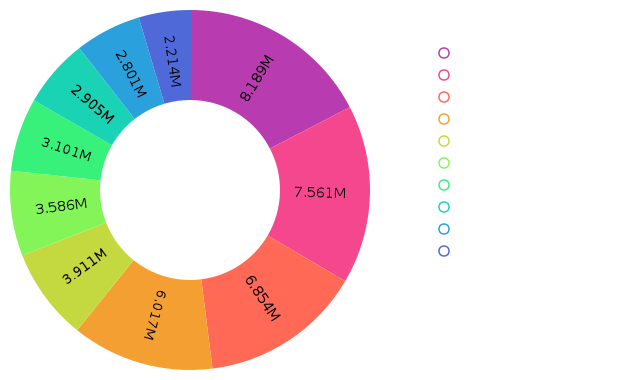
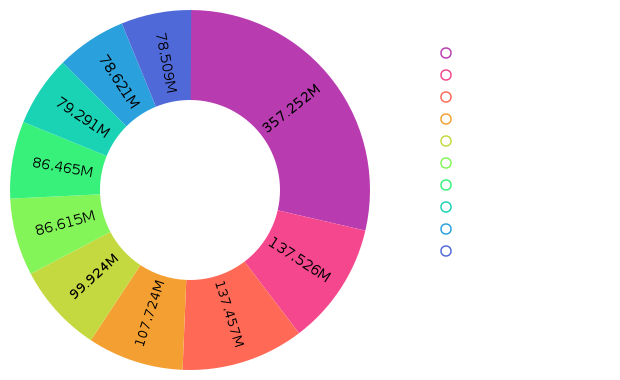
make sure image is generated before table reset

diff --git a/View/bot.js b/View/bot.js
@@ -24,12 +24,24 @@ function checkForInjection(message) {
 
 // make an announcement for a given time table
 async function makeExpAnnouncement(clanName = 'Sorrow Knights', numTop = 5, time = 'daily', isSplit = false, isSpam = true) {
-	var message = await annmsg.makeExpAnnouncementMessage(clanName, numTop, time, isSplit);
-	if(isSpam) {
-		spam_hook.send(message);
-	} else {
-		ach_hook.send(message);
-	}	
+	if(numTop > 15) {
+        numTop = 15;
+    }
+    let canDo = await annmsg.makeRankAnnouncementMessage('Sorrow Knights', numTop, time, false);
+    if(canDo) {
+        if(isSpam) {
+			spam_hook.send({files: ["./View/rank.png"]});
+		} else {
+			ach_hook.send({files: ["./View/rank.png"]});
+		}	
+    } else {
+		if(isSpam) {
+			spam_hook.send("Not enough data to make announcement.");
+		} else {
+			ach_hook.send("Not enough data to make announcement.");
+		}
+	}
+	return canDo;
 }
 
 function sendAchHookMessage(message){
@@ -59,6 +71,8 @@ var hourly_update = schedule.scheduleJob('30 * * * *', function(){
 	});
 })
 
+makeExpAnnouncement('Sorrow Knights', 10, 'daily', false, true);
+
 // at 0 gmt
 var daily_job = schedule.scheduleJob('0 0 * * *', function(){
 	// calculate the last days top exp and send to discord channel
@@ -75,7 +89,7 @@ var daily_job = schedule.scheduleJob('0 0 * * *', function(){
 var weekly_job = schedule.scheduleJob('0 0 * * 1', function(){
 	// calculate the last week's top exp and send to discord channel
 	var numTop = 5;
-	makeExpAnnouncement('Sorrow Knights', 5, 'weekly', false, false).then (res => {
+	makeExpAnnouncement('Sorrow Knights', 10, 'weekly', false, false).then (res => {
 		clan.setWeeklyXp();
 	});
 	// send stuff to discord channel
@@ -84,7 +98,7 @@ var weekly_job = schedule.scheduleJob('0 0 * * 1', function(){
 // at 0 gmt every first day of the month update monthly
 var monthly_job = schedule.scheduleJob('0 0 1 * *', function(){
 	// calculate the last month's top exp and send to discord channel
-	makeExpAnnouncement('Sorrow Knights', 5, 'monthly', false, false).then (res => {
+	makeExpAnnouncement('Sorrow Knights', 10, 'monthly', false, false).then (res => {
 		clan.setMonthlyXp();
 	});
 	// send stuff to discord channel

diff --git a/View/announcementmsg.js b/View/announcementmsg.js
@@ -85,6 +85,9 @@ async function makeRankAnnouncementMessage(clanName = 'Sorrow Knights', numTop =
 			total = await clan.calculateTopExpMonthly(clanName, numTop);
 			break;
 	}
+	if(total[0].name == undefined) {
+		return false;
+	}
 	//let total = await clan.calculateTopExpDaily(clanName, numTop);
 	let data = [];
 	for(let i in total) {

diff --git a/View/commands.js b/View/commands.js
@@ -132,8 +132,8 @@ async function handleMyRSN(name, id) {
 }
 
 async function handleGTime(time, num = 10) {
-    if(num > 20) {
-        num = 20;
+    if(num > 15) {
+        num = 15;
     }
     let canDo = await annmsg.makeRankAnnouncementMessage('Sorrow Knights', num, time, false);
     if(canDo) {
